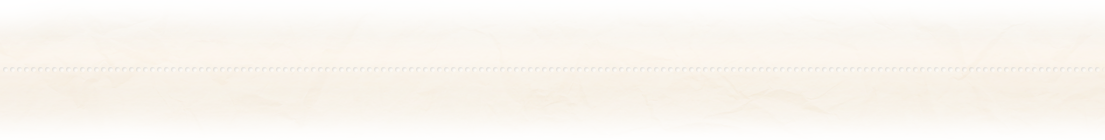
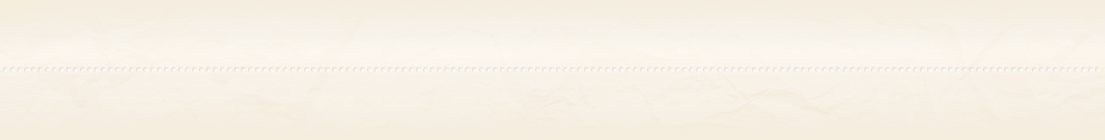
update cart_page

Changed region(s): [[0.0, 0.0, 1.0, 0.1429], [0.0, 0.9143, 1.0, 1.0]]

diff --git a/web/style/cart_page.scss b/web/style/cart_page.scss
@@ -16,7 +16,7 @@
     margin: 0 auto;
     padding: 0 10px;
 
-    width: 1135px;
+    width: 1130px;
     height: 32px;
 
     border: 2px solid #b7a28c;
@@ -39,7 +39,7 @@
     }
 
     .mini-hr {
-      width: 120px !important;
+      width: 110px !important;
     }
 
     span {
@@ -81,9 +81,55 @@
 
     width: 1105px;
 
-    background: url("../images/cart/items_in_cart_bg_top.png") no-repeat top center, url(../images/cart/items_in_cart_bg_repeat.png) repeat-y;
+    background: url("../images/cart/items_in_cart_bg_bottom.png") no-repeat bottom center, url("../images/cart/items_in_cart_bg_top.png") no-repeat top center, url(../images/cart/items_in_cart_bg_repeat.png) repeat-y;
 
     min-height: 100px;
     position: relative;
+
+    table {
+      font-family: pf_agora_sans_pro_thin_Italic;
+      font-style: italic;
+
+      color: #96735c !important;
+      font-size: em(18px);
+      font-weight: bold;
+
+      input[type=number]{
+        outline: none;
+        background: none;
+        border: none;
+        width: 45px;
+        padding: 0 5px;
+        text-align: center;
+        float: left;
+        marign-right: 420px;
+      }
+    }
   }
+
+  td:first-child {
+    width: 830px;
+    padding-right: 10px;
+  }
+
+  td:last-child{
+    text-align: right;
+    span {
+      float: right;
+    }
+  }
+
+  .item-in-cart {
+    padding: 15px;
+
+    img {
+      margin-right: 10px;
+
+      border-radius: 6px;
+      -webkit-box-shadow: 1px 1px 1px #8b674e;
+         -moz-box-shadow: 1px 1px 1px #8b674e;
+              box-shadow: 1px 1px 1px #8b674e;
+    }
+  }
+
 }

diff --git a/web/cart_page.html b/web/cart_page.html
@@ -279,6 +279,29 @@
 				</header>
 
 				<div class="items-in-cart">
+					<!-- Форма заказа товаров -->
+					<form name="cart-items">
+						<table>
+							<tr>
+								<td>
+									<div class="item-in-cart">
+										<img src="images/preview/calendar_2.png">
+										<span>Карта МИР ТВОИХ ПРИКЛЮЧЕНИЙ</span>
+									</div>
+								</td>
+								<td>
+									<div class="input-number number-down"></div>
+									<input type="number" value="1">
+									<div class="input-number number-up"></div>
+								</td>
+								<td>
+									<span class="item-cost">
+										1000 <i class="cart-item-rouble"></i>
+									</span>
+								</td>
+							</tr>
+						</table>
+					</form>
 
 				</div>
 

diff --git a/web/style/modules/_icons.scss b/web/style/modules/_icons.scss
@@ -220,3 +220,17 @@
 .hit-icon {
   background: url("../../images/icons/hit-icon.png") no-repeat;
 }
+
+//Корзина
+.input-number {
+  cursor: pointer;
+  width: 25px;
+  height: 24px;
+  display: block;
+  float: left;
+  background: url("../../images/cart/item-number-count.png") no-repeat;
+}
+
+.number-up {
+  background-position: right;
+}
